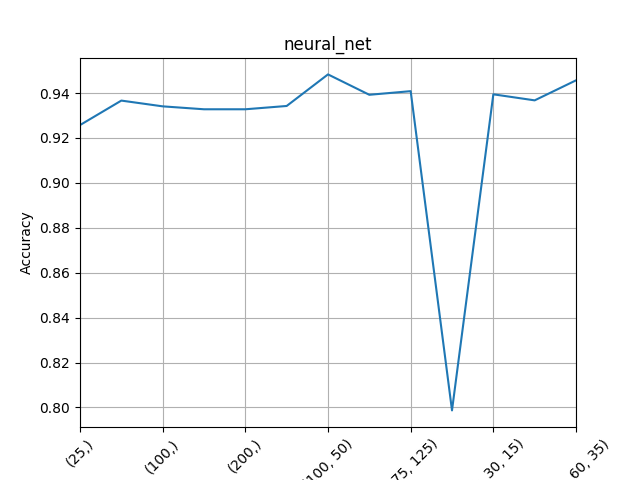
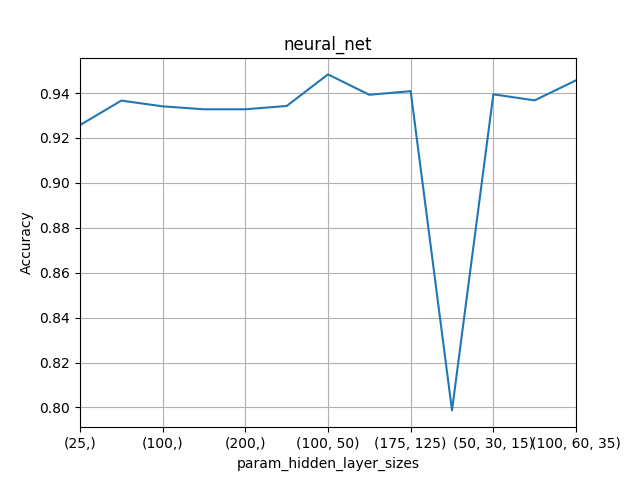
Naprawione wykresy

diff --git a/experiments.py b/experiments.py
@@ -67,7 +67,7 @@ def draw_plots(classifier, x_axis, y_axis, **kwargs):
         data_all_subset_df = data_all_df
 
     data_all_subset_df.plot(x_axis, y_axis, title=classifier, grid=True,
-                            rot=45, legend=False)
+                            legend=False)
     plt.ylabel("Accuracy")
     plt.savefig(f"Wykresy/{classifier}_{x_axis}_plot2.png")
     plt.show()
@@ -85,7 +85,6 @@ def draw_plots(classifier, x_axis, y_axis, **kwargs):
     plt.plot(PERCENTILES, selected_features_df[y_axis])
     plt.title(classifier)
     plt.xlabel("Procent cech wybranych do uczenia modelu")
-    plt.xticks(rotation=45)
     plt.ylabel("Accuracy")
     plt.grid()
     plt.savefig(f"Wykresy/{classifier}_{x_axis}_selected_features_plot2.png")
@@ -176,6 +175,5 @@ clasifiers = {
 
 features, targets = load_and_prepare_data("test.npz")
 # main_experiment(features, targets, clasifiers)
-draw_plots("neural_net", "param_hidden_layer_sizes", "mean_test_score",
-           param_alpha=0.15, param_activation="tanh",
-           param_max_iter=300)
+draw_plots("svm_rbf", "param_C", "mean_test_score",
+           param_gamma=0.5, param_max_iter=300)

diff --git a/save_model.py b/save_model.py
@@ -51,7 +51,7 @@ clf = RandomForestClassifier()
 clf2 = MLPClassifier()
 clf3 = KNeighborsClassifier()
 grid_search = GridSearchCV(clf3, param_grid3, scoring="accuracy",
-                           cv=3, iid=False, n_jobs=-1)
+                           cv=3, iid=False)
 grid_search.fit(features, targets)
 best_estimator = grid_search.best_estimator_
 joblib.dump(best_estimator, "Markowska_Kuczyński_classifier.pkl")
